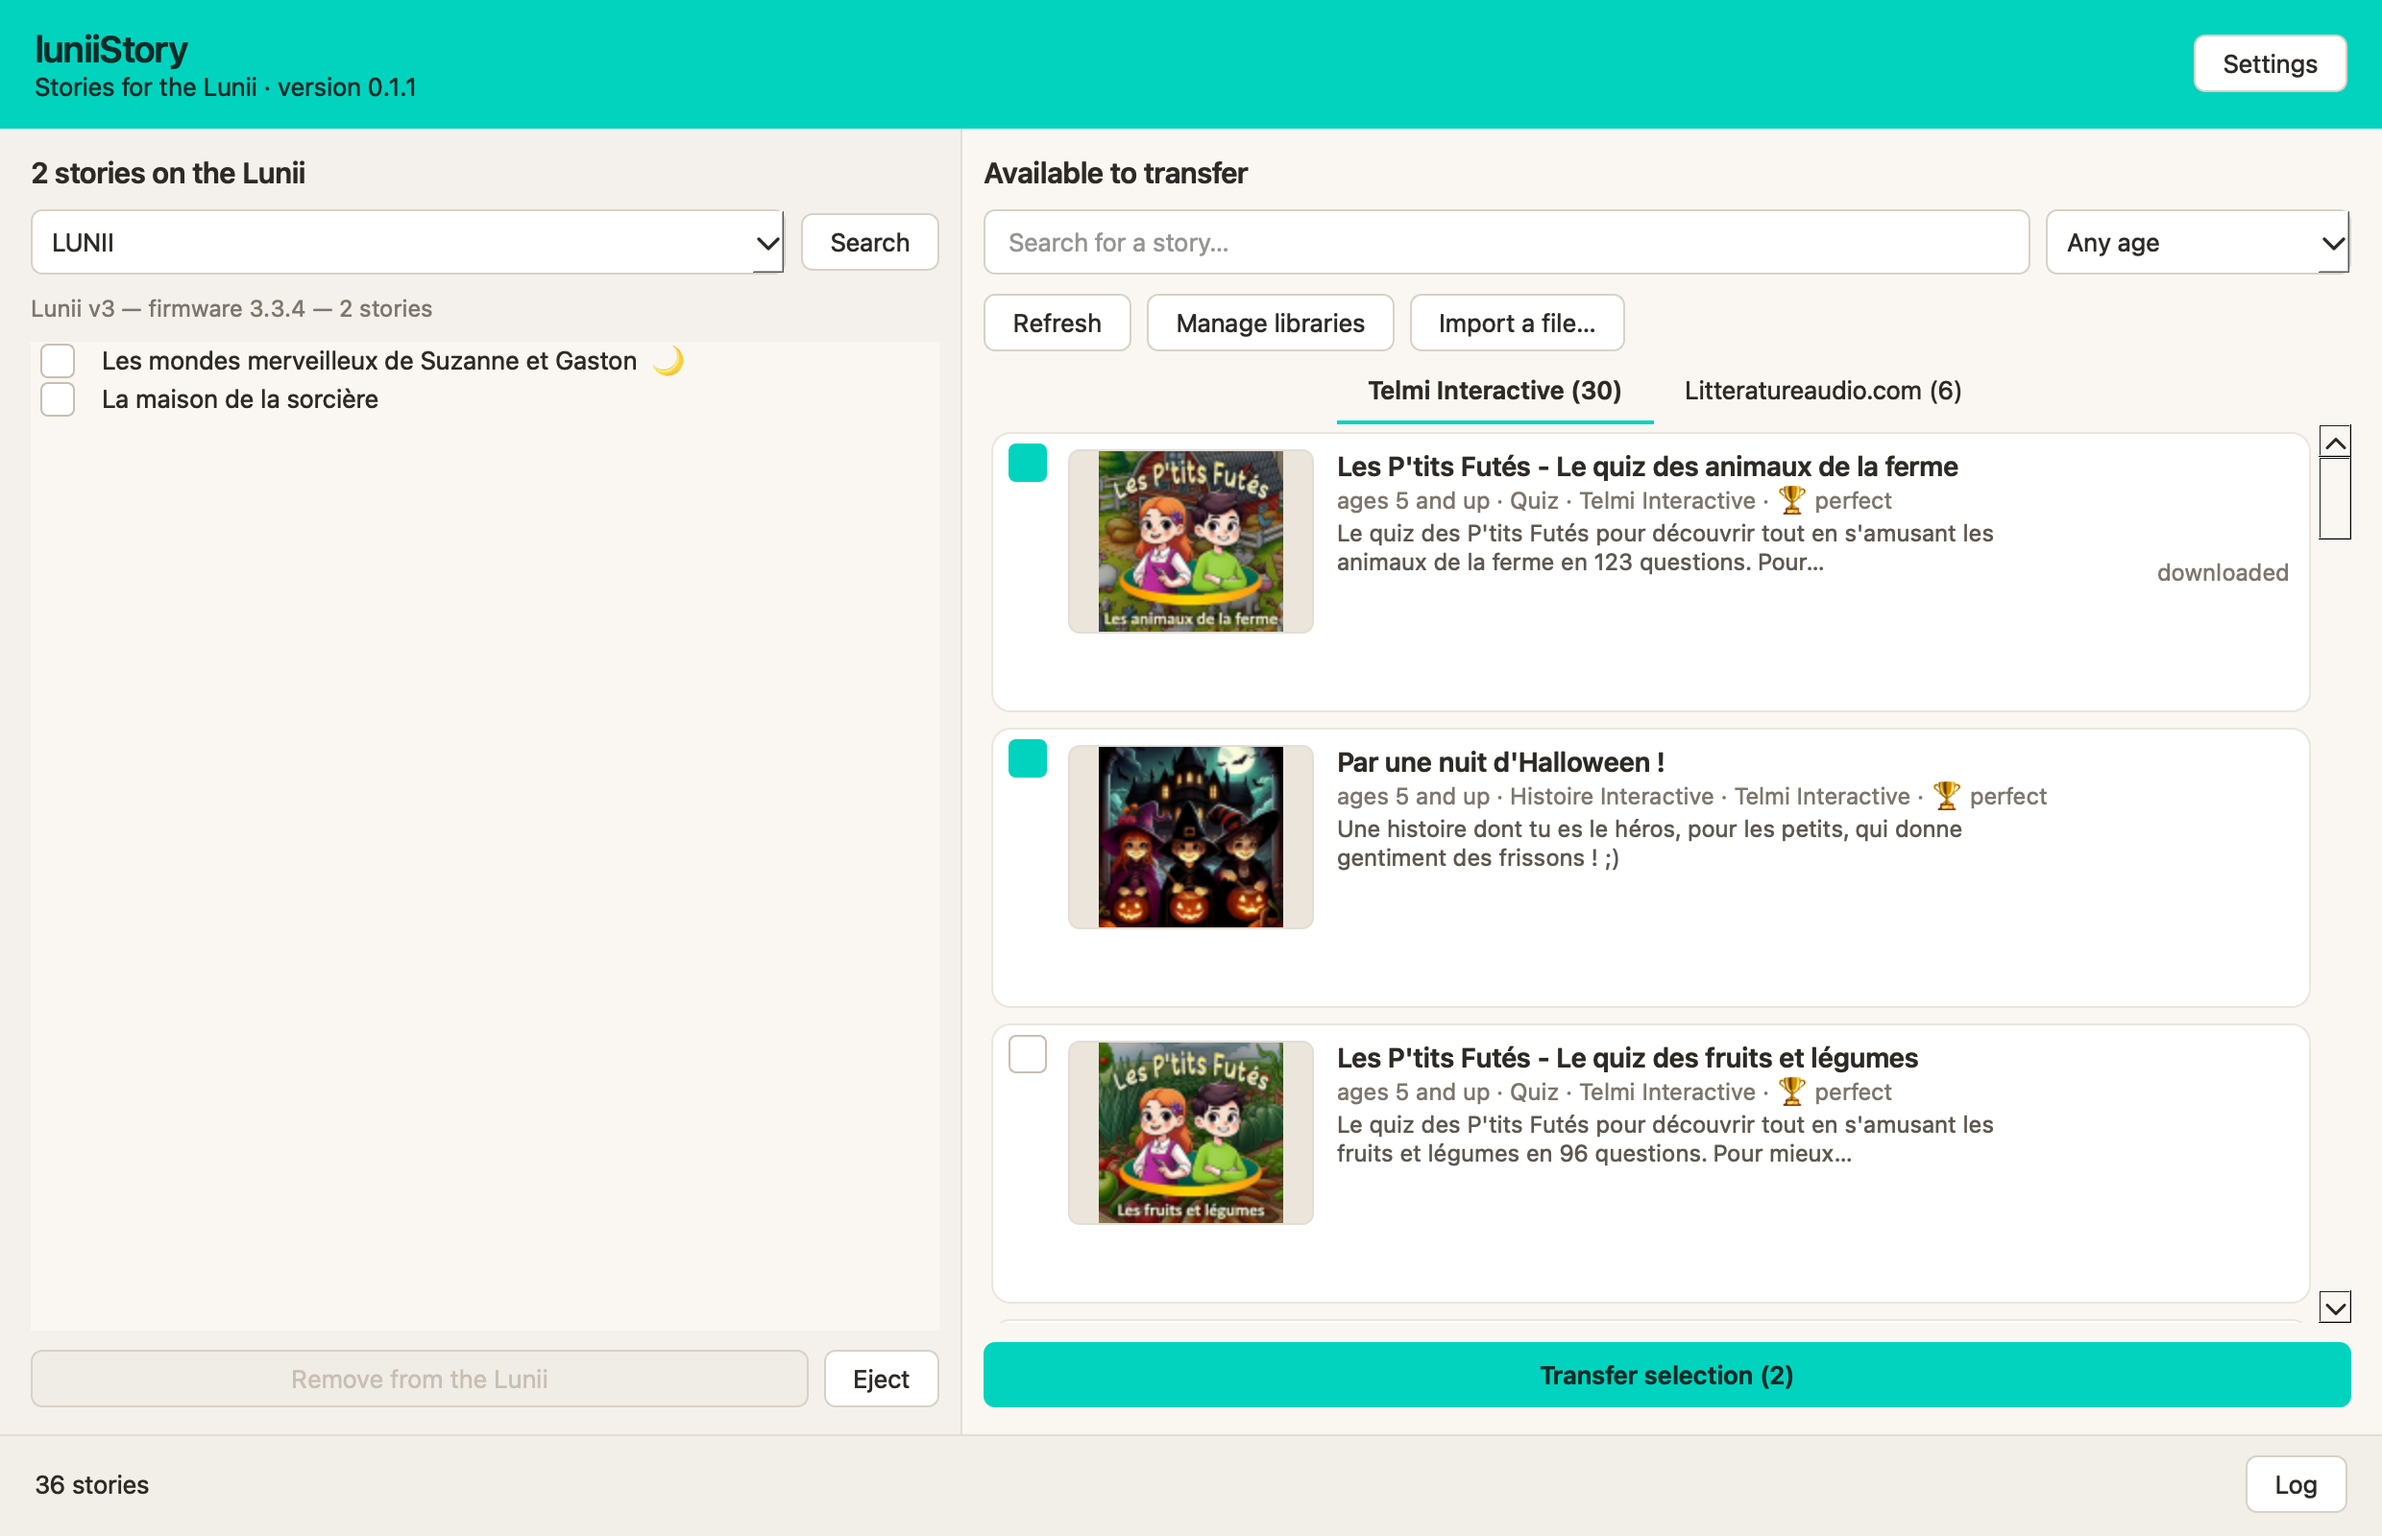
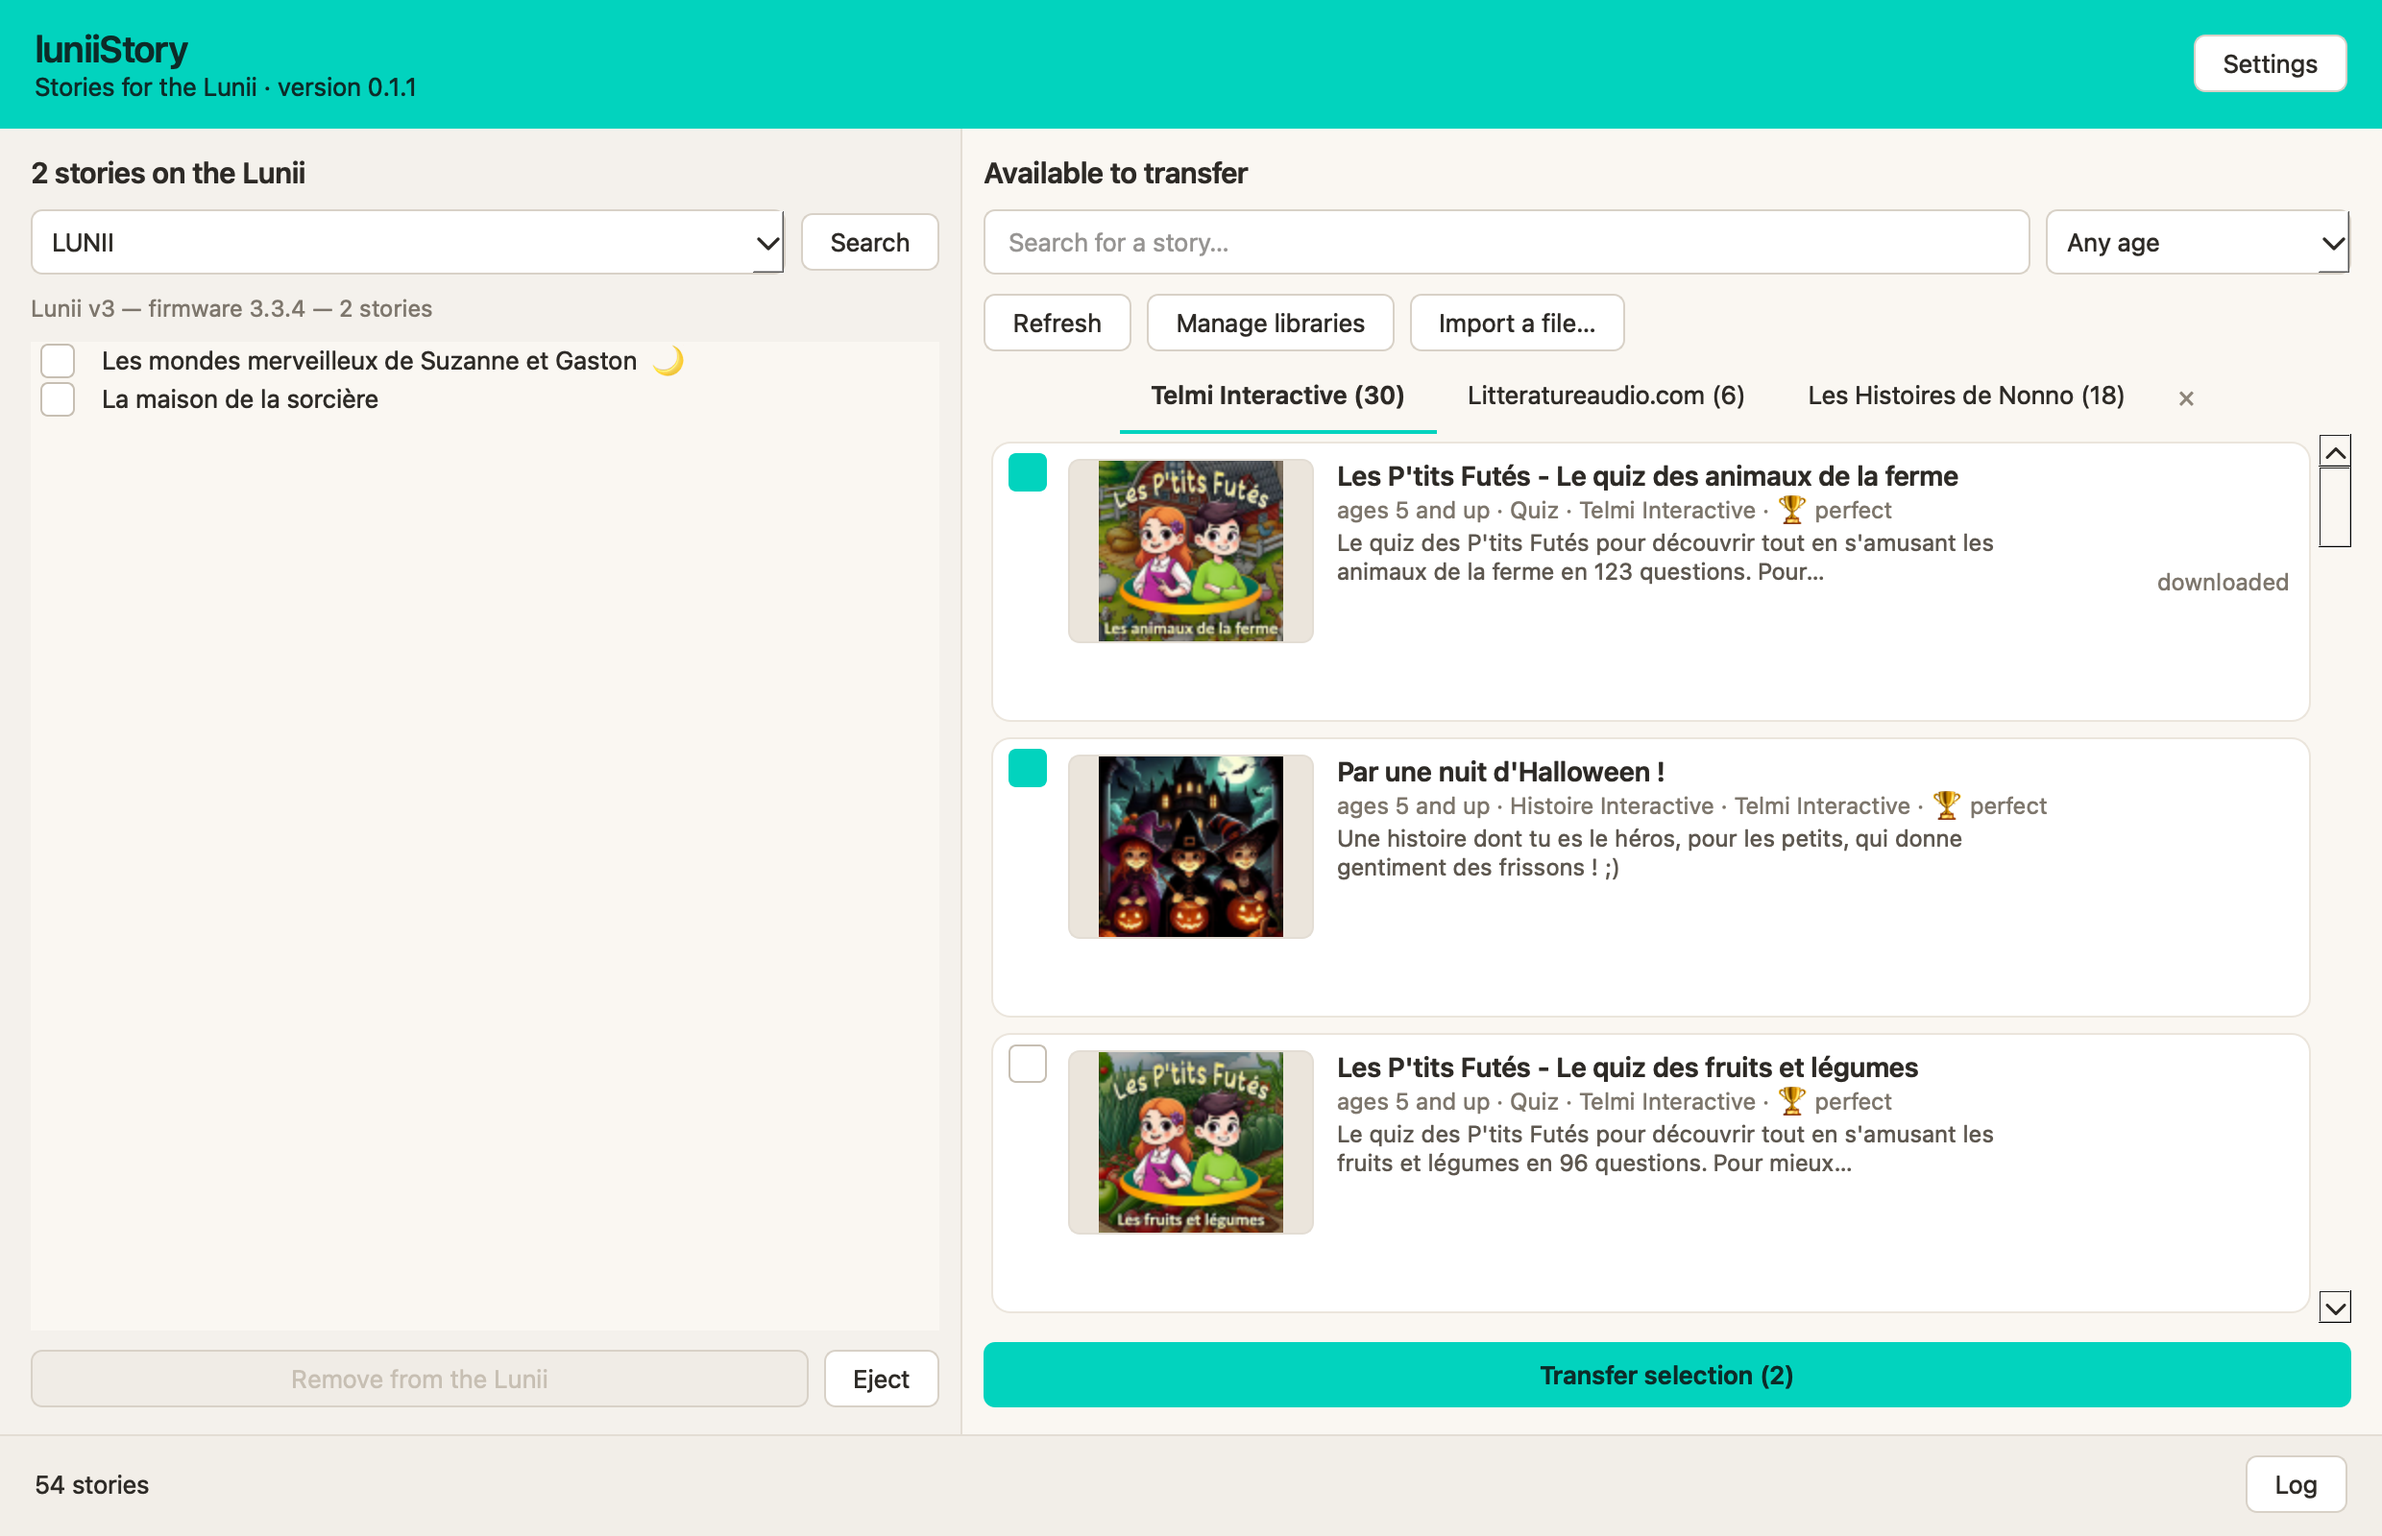
Point at the issue tracker from the settings
Reporting a problem meant finding the repository first. The settings
window now has a Report a problem button next to Open the log, since a
report without the log is worth little and the two belong on the same
line.

diff --git a/luniistory/ui/settings_dialog.py b/luniistory/ui/settings_dialog.py
@@ -8,6 +8,7 @@ import subprocess
 import sys
 
 from PySide6.QtCore import Qt
+from PySide6.QtGui import QDesktopServices
 from PySide6.QtWidgets import (
     QCheckBox,
     QComboBox,
@@ -81,15 +82,22 @@ class SettingsDialog(QDialog):
         form.addRow(_("Updates"), self.check_updates)
         form.addRow(_("Downloaded packs"), downloads_row)
         form.addRow(_("Audio conversion"), self.audio)
+        # The two belong together: a report is worth little without the log.
         log_button = QPushButton(_("Open the log"))
         log_button.clicked.connect(lambda: reveal(logs.log_dir()))
-        log_row = QHBoxLayout()
-        log_row.setSpacing(8)
-        log_row.addWidget(QLabel(_("Useful when reporting a problem")), 1)
-        log_row.addWidget(log_button)
+
+        issue_button = QPushButton(_("Report a problem"))
+        issue_button.setToolTip(_("Opens GitHub, where bugs and ideas are collected"))
+        issue_button.clicked.connect(lambda: QDesktopServices.openUrl(updates.NEW_ISSUE_PAGE))
+
+        help_row = QHBoxLayout()
+        help_row.setSpacing(8)
+        help_row.addWidget(QLabel(_("Attach the log to say what went wrong")), 1)
+        help_row.addWidget(log_button)
+        help_row.addWidget(issue_button)
 
         form.addRow(_("Files"), folder_row)
-        form.addRow(_("Log"), log_row)
+        form.addRow(_("Help"), help_row)
 
         buttons = QDialogButtonBox(QDialogButtonBox.Close)
         buttons.button(QDialogButtonBox.Close).setText(_("Close"))

diff --git a/luniistory/updates.py b/luniistory/updates.py
@@ -18,6 +18,7 @@ from luniistory.stores import TIMEOUT, USER_AGENT
 REPOSITORY = "nicotontige/LuniiStory"
 LATEST_URL = f"https://api.github.com/repos/{REPOSITORY}/releases/latest"
 RELEASES_PAGE = f"https://github.com/{REPOSITORY}/releases/latest"
+NEW_ISSUE_PAGE = f"https://github.com/{REPOSITORY}/issues/new"
 
 CACHE_NAME = "latest-release.json"
 CACHE_SECONDS = 24 * 3600
